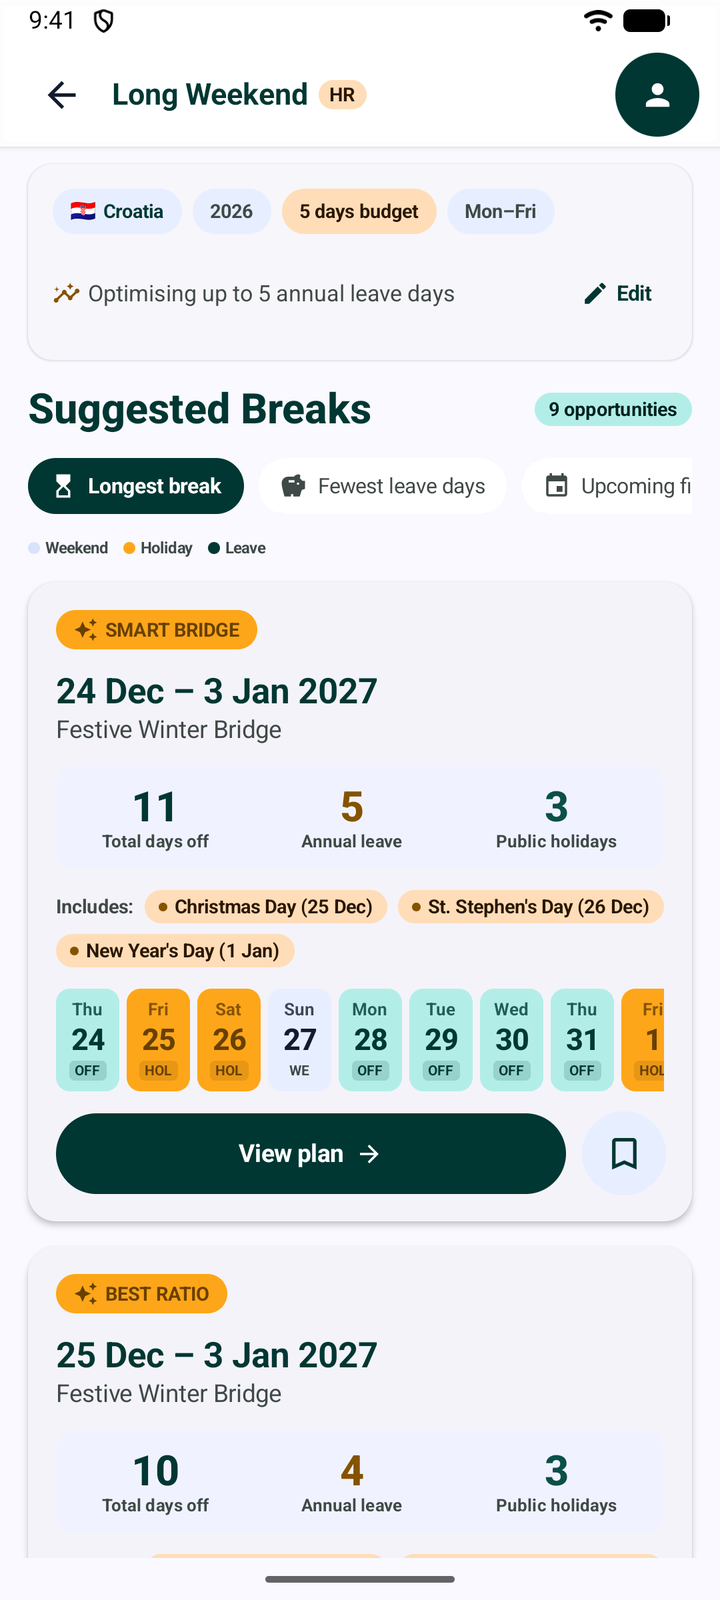
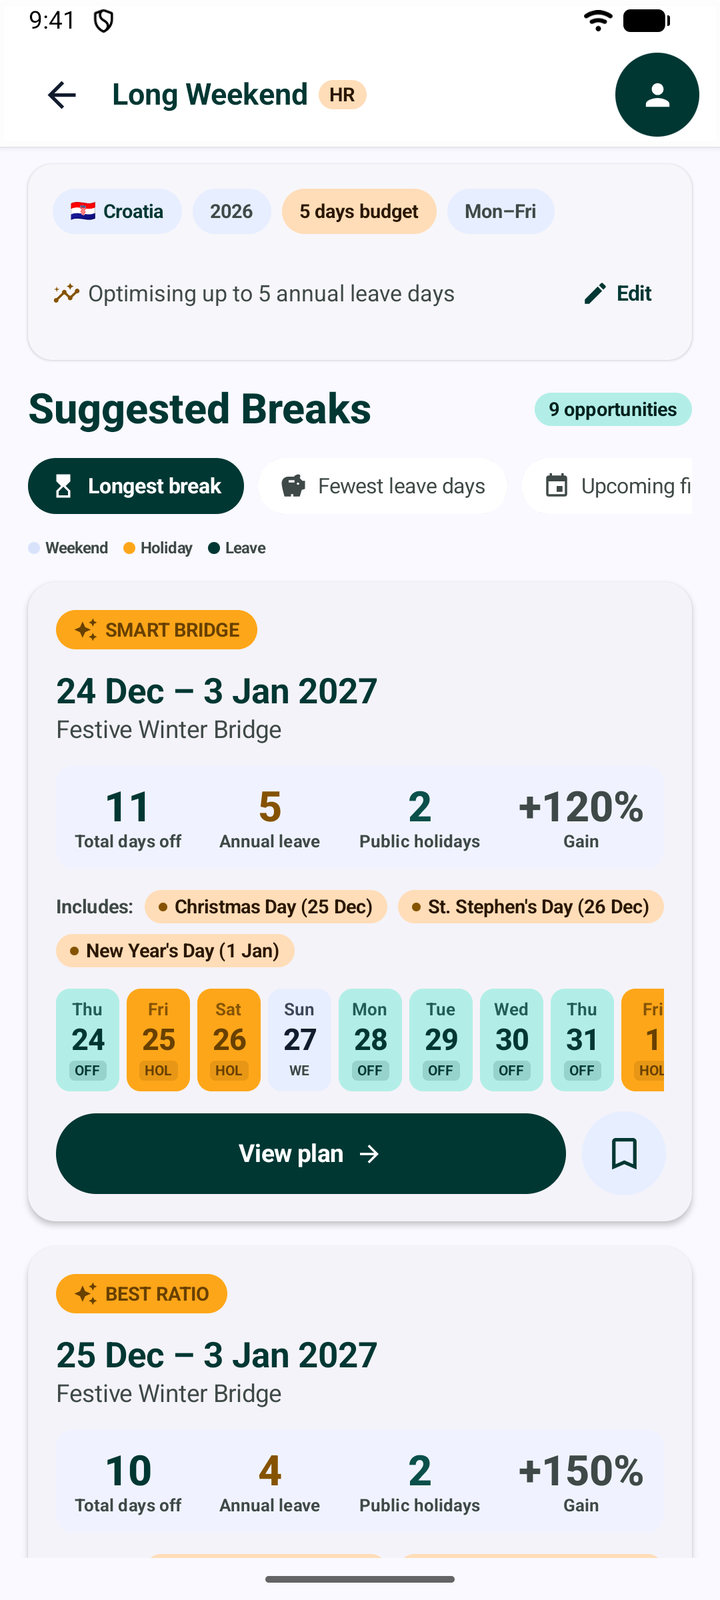
Bring the README up to date with 1.2.0
New screenshots with the gain figure and the share button; mention sharing from Saved, the gain on suggestions and how weekend holidays are counted; list plan sharing in the code structure.

diff --git a/README.md b/README.md
@@ -42,12 +42,14 @@ Croatia, Christmas 2026: book **5 days** of leave and you are off for **11 days 
 
 🟩 annual leave &nbsp;·&nbsp; 🟧 public holiday &nbsp;·&nbsp; ⬜ weekend
 
+St Stephen's Day falls on a Saturday that year, so the app counts only the two weekday holidays as saving leave: 5 leave + 2 holidays + 4 weekend days = 11.
+
 ## Features
 
 - 🧭 **Discover**: pick a country, a year and how many leave days you want to spend, and see the best bridges straight away.
-- 📋 **Suggested breaks**: every useful combination, sorted by longest break, fewest leave days or soonest date, with a day-by-day strip.
+- 📋 **Suggested breaks**: every useful combination, sorted by longest break, fewest leave days or soonest date, with a day-by-day strip and how many extra days you gain.
 - 🗓 **Plan details**: month calendars, the exact dates to request from HR with a checklist, copy to clipboard and add to Google Calendar.
-- 📤 **Share a plan** by e-mail, WhatsApp, Viber or any other app: the dates to request, the holidays and what you gain, as readable text.
+- 📤 **Share a plan** from Plan details or Saved, by e-mail, WhatsApp, Viber or any other app: the dates to request, the holidays and what you gain, as readable text.
 - 🌍 **Public holidays**: the whole year at a glance for 204 countries, national and regional.
 - 🔖 **Saved plans**: keep the breaks you like and tick off each day as your employer approves it.
 - 🗂 **Your working week**: Monday–Friday or Sunday–Thursday, set from your country automatically.
@@ -102,6 +104,8 @@ Holidays come from the free [Nager.Date](https://date.nager.at) public holidays 
 - need at least one leave day, within your budget,
 - include a holiday that falls on a working day.
 
+A holiday on a weekend is still shown in the break, but it isn't counted as saving leave, because that day was off anyway.
+
 It then drops any break that an overlapping one beats on both leave cost and length. The bridge-finding code is in [`HolidayBridgeOptimizer.kt`](app/src/main/java/com/longweekend/optimizer/optimizer/HolidayBridgeOptimizer.kt) and is covered by unit tests.
 
 ## Build from source
@@ -152,7 +156,7 @@ app/src/main/java/com/longweekend/optimizer/
 ├── optimizer/    HolidayBridgeOptimizer: the bridge-finding algorithm
 ├── repository/   holiday API, cache, offline calendars, settings, saved plans
 ├── viewmodel/    MainViewModel
-└── ui/           Compose screens, components, themes and text formatting
+└── ui/           Compose screens, components, themes, plan sharing and text formatting
 ```
 
 ## Contributing
